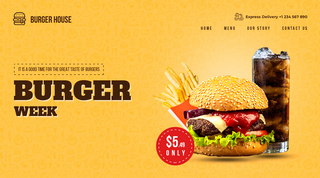
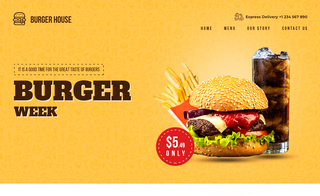
Com_Portfolio_IMG1

diff --git a/index.html b/index.html
@@ -671,7 +671,7 @@
                     </div>
                     <!------------ Portfolio 2 ------------>
                     <div class="portfolio__content grid swiper-slide">
-                        <img src="./img/portfolio_img/005.jpg" alt="img" class="portfolio__img">
+                        <img src="./img/portfolio_img/010.png" alt="img" class="portfolio__img">
                         <div class="portfolio__data">
                             <h3 class="portfolio__title">Landing Page. Cafe</h3>
                             <p class="portfolio__description">Landing Page Georgian cuisine cafe<br>Mobile and responsive layout: yes.</p>

diff --git a/010/css/style.css b/010/css/style.css
@@ -1092,7 +1092,7 @@ body {
     }
 
     .header__cell p {
-        font-size: 21px;
+        font-size: 20px;
     }
 
     .header__lists {
